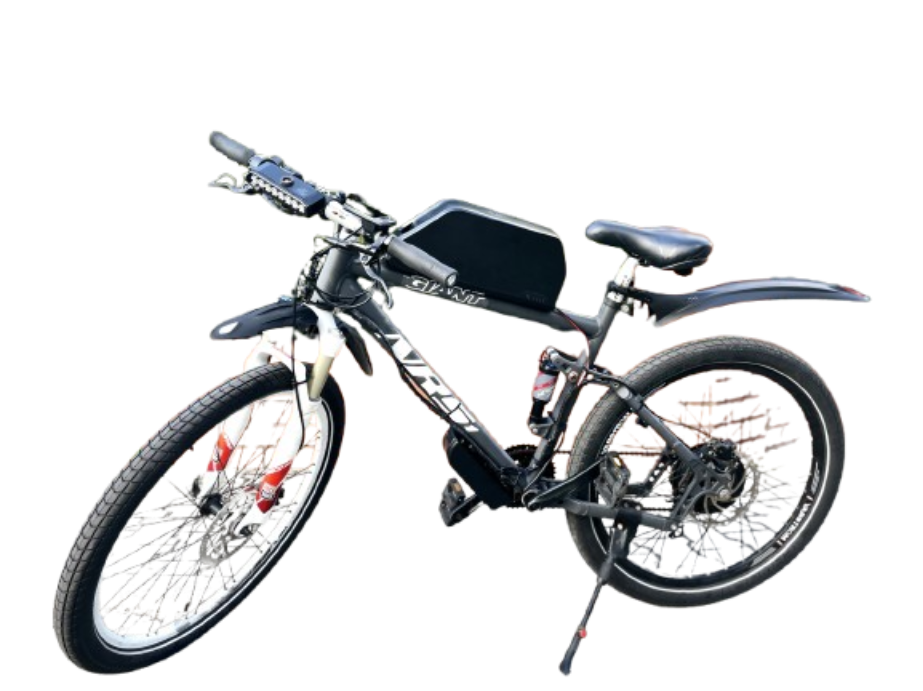
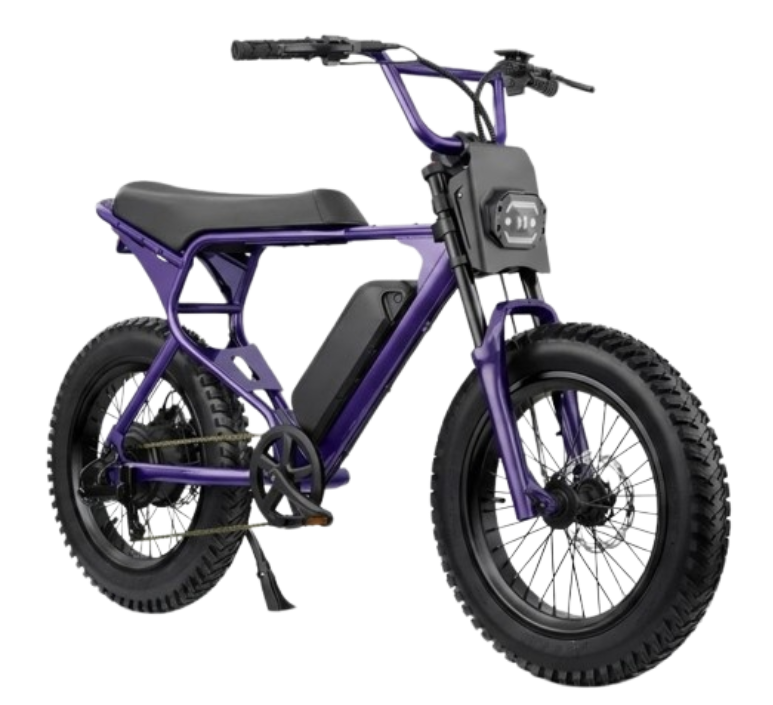
IMproved mobile

diff --git a/pages/batteries.vue b/pages/batteries.vue
@@ -137,23 +137,24 @@
             </div>
           </div>
           <!-- CTA buttons -->
-          <div class="mt-10 flex flex-col sm:flex-row gap-3 items-center justify-center sm:items-center mb-6 md:mb-10">
-            <a href="tel:[phone redacted]"
-              class="inline-flex items-center justify-center w-full gap-2 text-sm font-bold text-white bg-[#f05b04] hover:bg-[#d44d03] px-6 py-3.5 rounded-xl transition-colors">
-              <svg class="w-4 h-4" fill="none" viewBox="0 0 24 24" stroke="currentColor" stroke-width="2.5">
-                <path stroke-linecap="round" stroke-linejoin="round" d="M3 5.5C3 4.67 3.67 4 4.5 4H7.28C8.04 4 8.69 4.53 8.83 5.28L9.45 8.37C9.56 8.94 9.35 9.53 8.89 9.9L7.09 11.37C8.09 13.83 10.05 15.79 12.51 16.79L13.98 14.98C14.35 14.53 14.93 14.31 15.51 14.43L18.6 15.04C19.34 15.19 19.88 15.84 19.88 16.6V19.38C19.88 20.2 19.2 20.88 18.38 20.88H17.25C9.38 20.88 3 14.5 3 6.63V5.5Z"/>
-              </svg>
-              {{ $t('header.callUs') }}
-            </a>
-            <a href="https://t.me/evola_manager" target="_blank" rel="noopener"
-              class="inline-flex items-center justify-center w-full gap-2 text-sm font-semibold text-[#8fa3bb] hover:text-white transition-colors px-6 py-3.5 rounded-xl"
-              style="background: rgba(255,255,255,0.05); border: 1px solid rgba(255,255,255,0.1);">
-              <svg class="w-4 h-4" fill="currentColor" viewBox="0 0 24 24">
-                <path d="M11.944 0A12 12 0 0 0 0 12a12 12 0 0 0 12 12 12 12 0 0 0 12-12A12 12 0 0 0 12 0a12 12 0 0 0-.056 0zm4.962 7.224c.1-.002.321.023.465.14a.506.506 0 0 1 .171.325c.016.093.036.306.02.472-.18 1.898-.962 6.502-1.36 8.627-.168.9-.499 1.201-.82 1.23-.696.065-1.225-.46-1.9-.902-1.056-.693-1.653-1.124-2.678-1.8-1.185-.78-.417-1.21.258-1.91.177-.184 3.247-2.977 3.307-3.23.007-.032.014-.15-.056-.212s-.174-.041-.249-.024c-.106.024-1.793 1.14-5.061 3.345-.48.33-.913.49-1.302.48-.428-.008-1.252-.241-1.865-.44-.752-.245-1.349-.374-1.297-.789.027-.216.325-.437.893-.663 3.498-1.524 5.83-2.529 6.998-3.014 3.332-1.386 4.025-1.627 4.476-1.635z"/>
-              </svg>
-              Telegram
-            </a>
-          </div>
+            <!-- Mobile CTAs — pinned to bottom of hero -->
+      <div class="md:hidden relative z-10 flex flex-col gap-3 px-4 pb-8 pt-10">
+        <a href="tel:[phone redacted]"
+          class="inline-flex items-center justify-center gap-2 text-sm font-bold text-white bg-[#f05b04] hover:bg-[#d44d03] w-full py-3.5 rounded-xl transition-colors">
+          <svg class="w-4 h-4" fill="none" viewBox="0 0 24 24" stroke="currentColor" stroke-width="2.5">
+            <path stroke-linecap="round" stroke-linejoin="round" d="M3 5.5C3 4.67 3.67 4 4.5 4H7.28C8.04 4 8.69 4.53 8.83 5.28L9.45 8.37C9.56 8.94 9.35 9.53 8.89 9.9L7.09 11.37C8.09 13.83 10.05 15.79 12.51 16.79L13.98 14.98C14.35 14.53 14.93 14.31 15.51 14.43L18.6 15.04C19.34 15.19 19.88 15.84 19.88 16.6V19.38C19.88 20.2 19.2 20.88 18.38 20.88H17.25C9.38 20.88 3 14.5 3 6.63V5.5Z"/>
+          </svg>
+          {{ $t('header.callUs') }}
+        </a>
+        <a href="https://t.me/evola_manager" target="_blank" rel="noopener"
+          class="inline-flex items-center justify-center gap-2 text-sm font-semibold text-[#8fa3bb] hover:text-white transition-colors w-full py-3.5 rounded-xl"
+          style="background: rgba(255,255,255,0.05); border: 1px solid rgba(255,255,255,0.1);">
+          <svg class="w-4 h-4" fill="currentColor" viewBox="0 0 24 24">
+            <path d="M11.944 0A12 12 0 0 0 0 12a12 12 0 0 0 12 12 12 12 0 0 0 12-12A12 12 0 0 0 12 0a12 12 0 0 0-.056 0zm4.962 7.224c.1-.002.321.023.465.14a.506.506 0 0 1 .171.325c.016.093.036.306.02.472-.18 1.898-.962 6.502-1.36 8.627-.168.9-.499 1.201-.82 1.23-.696.065-1.225-.46-1.9-.902-1.056-.693-1.653-1.124-2.678-1.8-1.185-.78-.417-1.21.258-1.91.177-.184 3.247-2.977 3.307-3.23.007-.032.014-.15-.056-.212s-.174-.041-.249-.024c-.106.024-1.793 1.14-5.061 3.345-.48.33-.913.49-1.302.48-.428-.008-1.252-.241-1.865-.44-.752-.245-1.349-.374-1.297-.789.027-.216.325-.437.893-.663 3.498-1.524 5.83-2.529 6.998-3.014 3.332-1.386 4.025-1.627 4.476-1.635z"/>
+          </svg>
+          Telegram
+        </a>
+      </div>
 
         </div>
       </div>
@@ -277,7 +278,7 @@
           <p class="text-[#8fa3bb] text-sm mt-2 max-w-lg">{{ $t('batteries.buyDescription') }}</p>
         </div>
         <a href="https://t.me/evola_manager" target="_blank" rel="noopener"
-          class="inline-flex items-center gap-2 text-sm font-semibold text-[#8fa3bb] hover:text-white transition-colors px-5 py-2.5 rounded-xl flex-shrink-0"
+          class="inline-flex items-center gap-2 hidden text-sm font-semibold text-[#8fa3bb] hover:text-white transition-colors px-5 py-2.5 rounded-xl flex-shrink-0"
           style="background: rgba(255,255,255,0.05); border: 1px solid rgba(255,255,255,0.1);">
           <svg class="w-4 h-4 text-[#f05b04]" fill="currentColor" viewBox="0 0 24 24">
             <path d="M11.944 0A12 12 0 0 0 0 12a12 12 0 0 0 12 12 12 12 0 0 0 12-12A12 12 0 0 0 12 0a12 12 0 0 0-.056 0zm4.962 7.224c.1-.002.321.023.465.14a.506.506 0 0 1 .171.325c.016.093.036.306.02.472-.18 1.898-.962 6.502-1.36 8.627-.168.9-.499 1.201-.82 1.23-.696.065-1.225-.46-1.9-.902-1.056-.693-1.653-1.124-2.678-1.8-1.185-.78-.417-1.21.258-1.91.177-.184 3.247-2.977 3.307-3.23.007-.032.014-.15-.056-.212s-.174-.041-.249-.024c-.106.024-1.793 1.14-5.061 3.345-.48.33-.913.49-1.302.48-.428-.008-1.252-.241-1.865-.44-.752-.245-1.349-.374-1.297-.789.027-.216.325-.437.893-.663 3.498-1.524 5.83-2.529 6.998-3.014 3.332-1.386 4.025-1.627 4.476-1.635z"/>
@@ -286,52 +287,44 @@
         </a>
       </div>
 
-      <div class="grid grid-cols-1 lg:grid-cols-2 gap-6">
-
-        <!-- Left: featured image card -->
-        <div class="card-accent rounded-3xl overflow-hidden flex flex-col" style="border-color: rgba(240,91,4,0.25);">
-          <div class="relative flex-1 flex items-center justify-center p-8"
-               style="min-height: 280px; background: linear-gradient(135deg, rgba(240,91,4,0.08) 0%, rgba(240,91,4,0.03) 100%);">
-            <div class="absolute inset-0"
-                 style="background: radial-gradient(ellipse at center, rgba(240,91,4,0.12) 0%, transparent 65%);"></div>
-            <img src="/assets/dp7.webp" alt="Battery 30Ah EVOLA"
-                 class="relative max-h-56 w-auto object-contain drop-shadow-2xl" />
+      <div class="grid grid-cols-1 sm:grid-cols-2 lg:grid-cols-4 gap-5">
+        <div
+          v-for="b in batteryData"
+          :key="`buy-${b.key}`"
+          class="card-premium rounded-2xl flex flex-col overflow-hidden"
+        >
+          <!-- Battery icon zone -->
+          <div class="flex items-center justify-center px-6 pt-6 pb-4"
+               :style="b.key === 'b30'
+                 ? 'background: linear-gradient(160deg, rgba(240,91,4,0.10) 0%, rgba(240,91,4,0.03) 100%);'
+                 : 'background: rgba(255,255,255,0.015);'">
+            <svg viewBox="0 0 44 80" class="w-14 h-24" style="filter: drop-shadow(0 0 8px rgba(240,91,4,0.2));">
+              <!-- terminal nub -->
+              <rect x="15" y="0" width="14" height="7" rx="3"
+                    :fill="b.key === 'b30' ? '#f05b04' : 'rgba(255,255,255,0.2)'"/>
+              <!-- body outline -->
+              <rect x="2" y="7" width="40" height="71" rx="6" fill="none"
+                    :stroke="b.key === 'b30' ? '#f05b04' : 'rgba(255,255,255,0.15)'" stroke-width="1.5"/>
+              <!-- fill (bottom-aligned, height proportional to capacity) -->
+              <rect x="4"
+                    :y="71 - Math.round((b.fillW / 68) * 61)"
+                    width="36"
+                    :height="Math.round((b.fillW / 68) * 61)"
+                    rx="4"
+                    :fill="b.key === 'b30' ? '#f05b04' : '#1e4a8a'"
+                    opacity="0.85"/>
+              <!-- capacity label -->
+              <text x="22" y="53" text-anchor="middle" font-size="11" fill="white" font-weight="900" opacity="0.9">
+                {{ b.fillLabel }}Ah
+              </text>
+            </svg>
           </div>
-          <div class="p-6 flex flex-col gap-4">
-            <div>
-              <div class="text-xs text-[#f05b04] font-black uppercase tracking-widest mb-1">30 – 35 Ah</div>
-              <p class="text-sm text-[#8fa3bb]">{{ $t('batteries.b30.desc') }}</p>
-            </div>
-            <ul class="grid grid-cols-1 sm:grid-cols-2 gap-2">
-              <li v-for="spec in buySpecs" :key="spec"
-                  class="flex items-center gap-2 text-xs text-[#8fa3bb]">
-                <svg class="w-3.5 h-3.5 text-[#f05b04] flex-shrink-0" fill="none" viewBox="0 0 24 24" stroke="currentColor" stroke-width="2.5">
-                  <path stroke-linecap="round" stroke-linejoin="round" d="M5 13l4 4L19 7"/>
-                </svg>
-                {{ spec }}
-              </li>
-            </ul>
-          </div>
-        </div>
 
-        <!-- Right: 2×2 price grid -->
-        <div class="grid grid-cols-2 gap-4">
-          <div
-            v-for="b in batteryData"
-            :key="`buy-${b.key}`"
-            class="card-premium rounded-2xl flex flex-col p-5 gap-3"
-          >
-            <!-- Product image -->
-            <div class="flex items-center justify-center h-20 rounded-xl"
-                 style="background: rgba(255,255,255,0.02);">
-              <img
-                :src="b.key === 'b22' || b.key === 'b25' ? '/assets/dp5c.webp' : '/assets/dp7.webp'"
-                :alt="`Battery ${b.key}`"
-                class="h-16 w-auto object-contain opacity-90"
-              />
-            </div>
-
+          <!-- Content -->
+          <div class="p-5 flex flex-col gap-3 flex-1">
             <div class="text-2xl font-black text-white">{{ $t(`batteries.${b.key}.label`) }}</div>
+
+            <p class="text-xs text-[#8fa3bb] leading-relaxed flex-1">{{ $t(`batteries.${b.key}.desc`) }}</p>
 
             <!-- Warranty tag -->
             <div class="flex items-center gap-1.5">
@@ -340,8 +333,6 @@
               </svg>
               <span class="text-[10px] text-[#566a7f]">{{ $t('batteries.advantages.warranty') }}</span>
             </div>
-
-            <div class="flex-1"></div>
 
             <div class="pt-3" style="border-top: 1px solid rgba(255,255,255,0.07);">
               <div class="text-xl font-black text-white mb-2">{{ $t(`batteries.${b.key}.buyPrice`) }}</div>
@@ -396,7 +387,7 @@
                style="background: radial-gradient(ellipse at center, rgba(240,91,4,0.1) 0%, transparent 70%);"></div>
           <div class="relative rounded-3xl overflow-hidden ring-1 ring-white/10 w-full flex items-center justify-center"
                style="min-height: 340px; background: linear-gradient(135deg, #09111f 0%, #060e1a 100%);">
-            <img src="/assets/dp5c.webp" alt="EVOLA battery 25Ah"
+            <img src="/assets/battery_hero1.png" alt="EVOLA battery 25Ah"
                  class="max-h-72 w-auto object-contain drop-shadow-2xl p-6" />
           </div>
           <!-- Range badge -->
@@ -460,14 +451,6 @@ const serviceTags = computed(() => [
   { text: locale.value === 'ru' ? 'Договор аренды' : locale.value === 'pl' ? 'Umowa wynajmu' : 'Rental contract' },
 ])
 
-const buySpecs = computed(() => [
-  'Cells: 21700 M58T',
-  'Smart BMS + Bluetooth',
-  '48V · 4A charging',
-  t('batteries.advantages.warranty'),
-  t('batteries.advantages.temperature'),
-  t('batteries.advantages.monitoring'),
-])
 
 const advantageList = computed(() => {
   const noteWarranty = locale.value === 'ru' ? 'На все аккумуляторы при покупке' : locale.value === 'pl' ? 'Na wszystkie akumulatory przy zakupie' : 'On all batteries when purchased'

diff --git a/components/HeroSection.vue b/components/HeroSection.vue
@@ -36,7 +36,7 @@
     <div class="relative z-10 flex-1 max-w-screen-xl mx-auto w-full px-4 sm:px-6 lg:px-8 pt-10 pb-10 sm:pt-14 sm:pb-14 md:py-28 flex flex-col justify-center">
 
       <!-- Mobile: kicker + title always at top -->
-      <div class="md:hidden mb-4">
+      <div class="md:hidden">
         <div class="label-pill mb-4 self-start inline-flex">
           <svg class="w-3.5 h-3.5" fill="none" viewBox="0 0 24 24" stroke="currentColor" stroke-width="2.2">
             <path stroke-linecap="round" stroke-linejoin="round" d="M4.75 12.75l4.5 4.5 10-10.5"/>
@@ -66,10 +66,6 @@
             </h1>
           </div>
 
-          <p class="text-base sm:text-lg text-[#8fa3bb] leading-relaxed mb-3">
-            {{ $t('hero.subtitle') }}
-          </p>
-
           <!-- Desktop-only bullet points -->
           <div class="hidden md:grid gap-3 mb-4">
             <div v-for="point in heroPoints" :key="point" class="feature-tile px-4 py-3 text-sm text-[#d7e1ec]">
@@ -84,25 +80,23 @@
             {{ $t('hero.locationLine') }}
           </p>
 
-          <!-- CTA Row -->
-          <div class="flex flex-col sm:flex-row sm:flex-wrap gap-3 sm:gap-4 items-stretch sm:items-center mb-6 md:mb-0">
-            <Button
-              type="button"
-              variant="primary"
-              class="w-full sm:w-auto text-base px-8 py-3.5"
-              @click="redirectToCall()"
-            >
-              {{ $t('hero.orderButton') }}
-            </Button>
-            <button
-              class="inline-flex w-full sm:w-auto justify-center sm:justify-start items-center gap-2 text-sm font-medium text-[#8fa3bb] hover:text-white transition-colors"
-              @click="redirectToCall()"
-            >
-              <span>{{ $t('hero.viewOffers') }}</span>
-              <svg class="w-4 h-4" fill="none" viewBox="0 0 24 24" stroke="currentColor" stroke-width="2">
-                <path stroke-linecap="round" stroke-linejoin="round" d="M17 8l4 4m0 0l-4 4m4-4H3"/>
+          <!-- Desktop CTAs -->
+          <div class="hidden md:flex flex-row flex-wrap gap-3 items-center">
+            <a href="tel:[phone redacted]"
+              class="inline-flex items-center justify-center gap-2 text-sm font-bold text-white bg-[#f05b04] hover:bg-[#d44d03] px-6 py-3.5 rounded-xl transition-colors">
+              <svg class="w-4 h-4" fill="none" viewBox="0 0 24 24" stroke="currentColor" stroke-width="2.5">
+                <path stroke-linecap="round" stroke-linejoin="round" d="M3 5.5C3 4.67 3.67 4 4.5 4H7.28C8.04 4 8.69 4.53 8.83 5.28L9.45 8.37C9.56 8.94 9.35 9.53 8.89 9.9L7.09 11.37C8.09 13.83 10.05 15.79 12.51 16.79L13.98 14.98C14.35 14.53 14.93 14.31 15.51 14.43L18.6 15.04C19.34 15.19 19.88 15.84 19.88 16.6V19.38C19.88 20.2 19.2 20.88 18.38 20.88H17.25C9.38 20.88 3 14.5 3 6.63V5.5Z"/>
               </svg>
-            </button>
+              {{ $t('header.callUs') }}
+            </a>
+            <a href="https://t.me/evola_manager" target="_blank" rel="noopener"
+              class="inline-flex items-center justify-center gap-2 text-sm font-semibold text-[#8fa3bb] hover:text-white transition-colors px-6 py-3.5 rounded-xl"
+              style="background: rgba(255,255,255,0.05); border: 1px solid rgba(255,255,255,0.1);">
+              <svg class="w-4 h-4" fill="currentColor" viewBox="0 0 24 24">
+                <path d="M11.944 0A12 12 0 0 0 0 12a12 12 0 0 0 12 12 12 12 0 0 0 12-12A12 12 0 0 0 12 0a12 12 0 0 0-.056 0zm4.962 7.224c.1-.002.321.023.465.14a.506.506 0 0 1 .171.325c.016.093.036.306.02.472-.18 1.898-.962 6.502-1.36 8.627-.168.9-.499 1.201-.82 1.23-.696.065-1.225-.46-1.9-.902-1.056-.693-1.653-1.124-2.678-1.8-1.185-.78-.417-1.21.258-1.91.177-.184 3.247-2.977 3.307-3.23.007-.032.014-.15-.056-.212s-.174-.041-.249-.024c-.106.024-1.793 1.14-5.061 3.345-.48.33-.913.49-1.302.48-.428-.008-1.252-.241-1.865-.44-.752-.245-1.349-.374-1.297-.789.027-.216.325-.437.893-.663 3.498-1.524 5.83-2.529 6.998-3.014 3.332-1.386 4.025-1.627 4.476-1.635z"/>
+              </svg>
+              Telegram
+            </a>
           </div>
 
           <!-- Desktop-only quick stats -->
@@ -117,67 +111,60 @@
         <!-- Right: image -->
         <div class="relative flex items-center justify-center min-h-[260px] md:min-h-0">
 
-          <!-- Desktop image (original rounded card) -->
-          <div class="hidden md:block relative w-full">
-            <div class="absolute inset-0 rounded-3xl" style="background: radial-gradient(ellipse at center, rgba(240,91,4,0.15) 0%, transparent 70%);"></div>
-            <img
-              src="/assets/bic.webp"
-              :alt="$t('hero.imageAlt')"
-              class="relative w-full h-auto rounded-3xl object-cover ring-1 ring-white/10 shadow-2xl"
-              width="960"
-              height="640"
-              decoding="async"
-              fetchpriority="high"
-            />
-            <!-- Floating badge (desktop) -->
-            <div class="absolute bottom-3 left-3 right-3 sm:right-auto sm:bottom-4 sm:left-6 z-20 card-premium bg-black/80 px-3 sm:px-4 py-3 flex items-center gap-3 max-w-[calc(100%-1.5rem)] sm:max-w-none">
-              <div class="w-9 h-9 rounded-full flex items-center justify-center" style="background: rgba(240,91,4,0.15); border: 1px solid rgba(240,91,4,0.3);">
-                <svg class="w-4 h-4 text-[#f05b04]" fill="none" viewBox="0 0 24 24" stroke="currentColor" stroke-width="2.2">
-                  <path stroke-linecap="round" stroke-linejoin="round" d="M12 3l2.8 5.68 6.27.92-4.54 4.42 1.07 6.23L12 17.29l-5.6 2.96 1.07-6.23L2.93 9.6l6.27-.92L12 3z"/>
-                </svg>
-              </div>
-              <div>
-                <div class="text-xs font-bold text-white">{{ $t('hero.badgeTitle') }}</div>
-                <div class="text-[10px] text-[#8fa3bb]">{{ $t('hero.badgeSubtitle') }}</div>
-              </div>
-            </div>
-          </div>
-
-          <!-- Mobile image (bike_hero.png, same pattern as batteries page) -->
+          <!-- bike_hero.png — all screen sizes -->
           <img
             src="/assets/bike_hero.png"
             :alt="$t('hero.imageAlt')"
-            class="md:hidden mb-16 relative z-10 w-auto object-contain select-none"
-            style="max-height: 300px; max-width: 100%; filter: drop-shadow(0 20px 60px rgba(240,91,4,0.22)) drop-shadow(0 8px 24px rgba(0,0,0,0.5));"
+            class="mb-20 md:mb-0 relative z-10 object-contain select-none w-full"
+            style="max-height: 420px; filter: drop-shadow(0 20px 60px rgba(240,91,4,0.22)) drop-shadow(0 8px 24px rgba(0,0,0,0.5));"
             decoding="async"
             fetchpriority="high"
           />
 
-          <!-- Mobile price strip -->
-          <div class="absolute bottom-0 inset-x-0 md:hidden flex justify-center gap-2.5 pb-3">
+          <!-- Price strip -->
+          <div class="absolute bottom-0 inset-x-0 flex justify-center gap-2.5 pb-3 md:pb-4">
             <div class="flex flex-col items-center rounded-xl px-4 py-2.5 gap-0.5"
                  style="background: rgba(240,91,4,0.15); backdrop-filter: blur(6px); border: 1px solid rgba(240,91,4,0.35);">
-              <span class="text-[11px] font-black text-white leading-none">Full suspension</span>
-              <span class="text-[10px] font-bold text-[#f05b04] leading-none">250 zł / нед.</span>
-              <span class="text-[9px] text-[#566a7f] leading-none mt-0.5">{{ $t('hero.stats.service') }}</span>
+              <span class="text-[14px] font-black text-white leading-none">Full suspension</span>
+              <span class="text-[13px] font-bold text-[#f05b04] leading-none">250 zł / нед.</span>
+              <span class="text-[12px] text-[#566a7f] leading-none mt-0.5">{{ $t('hero.stats.service') }}</span>
             </div>
             <div class="flex flex-col items-center rounded-xl px-4 py-2.5 gap-0.5"
                  style="background: rgba(0,0,0,0.6); backdrop-filter: blur(6px); border: 1px solid rgba(255,255,255,0.08);">
-              <span class="text-[11px] font-black text-white leading-none">Hardtail</span>
-              <span class="text-[10px] font-bold text-[#f07040] leading-none">220 zł / нед.</span>
-              <span class="text-[9px] text-[#566a7f] leading-none mt-0.5">30Ah · сервис</span>
+              <span class="text-[14px] font-black text-white leading-none">Hardtail</span>
+              <span class="text-[13px] font-bold text-[#f07040] leading-none">220 zł / нед.</span>
+              <span class="text-[12px] text-[#566a7f] leading-none mt-0.5">30Ah · сервис</span>
             </div>
           </div>
         </div>
 
       </div>
+
+      <!-- Mobile CTAs — pinned to bottom of hero -->
+      <div class="md:hidden relative z-10 flex flex-col gap-3 px-4 pb-8 pt-10">
+        <a href="tel:[phone redacted]"
+          class="inline-flex items-center justify-center gap-2 text-sm font-bold text-white bg-[#f05b04] hover:bg-[#d44d03] w-full py-3.5 rounded-xl transition-colors">
+          <svg class="w-4 h-4" fill="none" viewBox="0 0 24 24" stroke="currentColor" stroke-width="2.5">
+            <path stroke-linecap="round" stroke-linejoin="round" d="M3 5.5C3 4.67 3.67 4 4.5 4H7.28C8.04 4 8.69 4.53 8.83 5.28L9.45 8.37C9.56 8.94 9.35 9.53 8.89 9.9L7.09 11.37C8.09 13.83 10.05 15.79 12.51 16.79L13.98 14.98C14.35 14.53 14.93 14.31 15.51 14.43L18.6 15.04C19.34 15.19 19.88 15.84 19.88 16.6V19.38C19.88 20.2 19.2 20.88 18.38 20.88H17.25C9.38 20.88 3 14.5 3 6.63V5.5Z"/>
+          </svg>
+          {{ $t('header.callUs') }}
+        </a>
+        <a href="https://t.me/evola_manager" target="_blank" rel="noopener"
+          class="inline-flex items-center justify-center gap-2 text-sm font-semibold text-[#8fa3bb] hover:text-white transition-colors w-full py-3.5 rounded-xl"
+          style="background: rgba(255,255,255,0.05); border: 1px solid rgba(255,255,255,0.1);">
+          <svg class="w-4 h-4" fill="currentColor" viewBox="0 0 24 24">
+            <path d="M11.944 0A12 12 0 0 0 0 12a12 12 0 0 0 12 12 12 12 0 0 0 12-12A12 12 0 0 0 12 0a12 12 0 0 0-.056 0zm4.962 7.224c.1-.002.321.023.465.14a.506.506 0 0 1 .171.325c.016.093.036.306.02.472-.18 1.898-.962 6.502-1.36 8.627-.168.9-.499 1.201-.82 1.23-.696.065-1.225-.46-1.9-.902-1.056-.693-1.653-1.124-2.678-1.8-1.185-.78-.417-1.21.258-1.91.177-.184 3.247-2.977 3.307-3.23.007-.032.014-.15-.056-.212s-.174-.041-.249-.024c-.106.024-1.793 1.14-5.061 3.345-.48.33-.913.49-1.302.48-.428-.008-1.252-.241-1.865-.44-.752-.245-1.349-.374-1.297-.789.027-.216.325-.437.893-.663 3.498-1.524 5.83-2.529 6.998-3.014 3.332-1.386 4.025-1.627 4.476-1.635z"/>
+          </svg>
+          Telegram
+        </a>
+      </div>
+
     </div>
   </section>
 </template>
 
 <script setup>
 import { computed } from 'vue'
-import Button from './ui/Button.vue'
 import { useI18n } from 'vue-i18n'
 
 const { t } = useI18n()
@@ -194,8 +181,4 @@ const stats = computed(() => [
   { value: t('hero.statValues.service'), label: t('hero.stats.service') },
   { value: t('hero.statValues.minimum'), label: t('hero.stats.minimum') },
 ])
-
-function redirectToCall() {
-  window.location.href = 'tel:[phone redacted]'
-}
 </script>